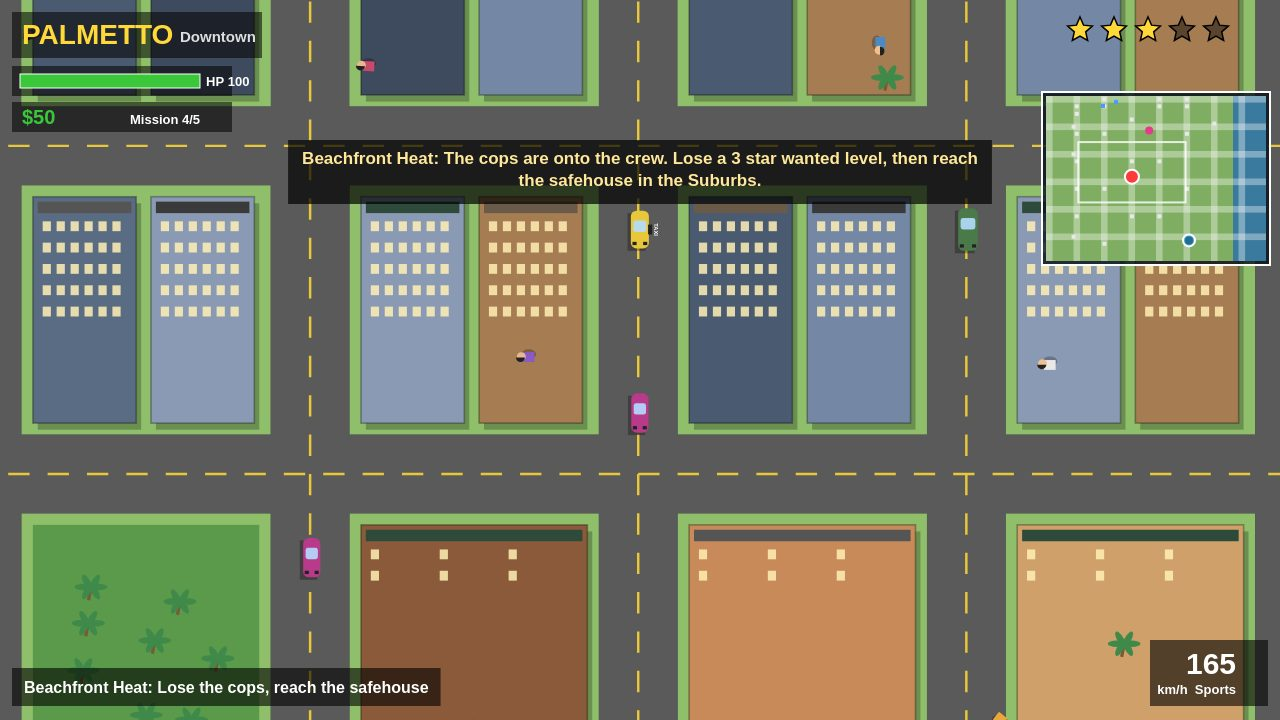
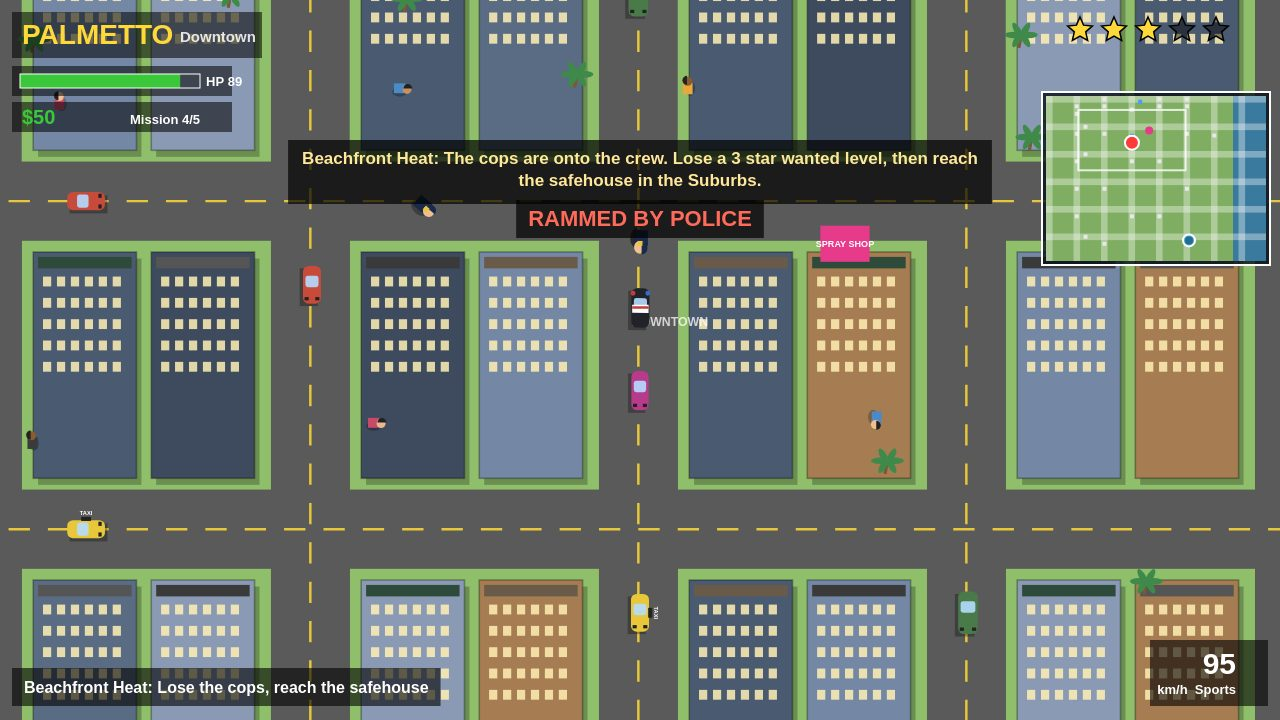
Palmetto v2: fix grader run, police chase, fresh screenshots

diff --git a/game/src/police.js b/game/src/police.js
@@ -26,11 +26,39 @@
   }
 
   function spawnCopNear(x, y, inCar) {
-    var a = Math.random() * Math.PI * 2;
-    var sx = x + Math.cos(a) * 420;
-    var sy = y + Math.sin(a) * 420;
-    sx = Math.max(60, Math.min(City.W - 60, sx));
-    sy = Math.max(60, Math.min(City.H - 60, sy));
+    var sx = x;
+    var sy = y;
+    var placed = false;
+    for (var t = 0; t < 24 && !placed; t++) {
+      var a = Math.random() * Math.PI * 2;
+      var r = 380 + Math.random() * 80;
+      var cx = x + Math.cos(a) * r;
+      var cy = y + Math.sin(a) * r;
+      cx = Math.max(60, Math.min(City.W - 60, cx));
+      cy = Math.max(60, Math.min(City.H - 60, cy));
+      if (City.isRoad(cx, cy) && !City.collideCircle(cx, cy, 12)) {
+        sx = cx; sy = cy; placed = true;
+      }
+    }
+    if (!placed) {
+      var found = false;
+      for (var rr = 200; rr <= 640 && !found; rr += 40) {
+        for (var k = 0; k < 24 && !found; k++) {
+          var ang = (k / 24) * Math.PI * 2;
+          var fx = x + Math.cos(ang) * rr;
+          var fy = y + Math.sin(ang) * rr;
+          fx = Math.max(60, Math.min(City.W - 60, fx));
+          fy = Math.max(60, Math.min(City.H - 60, fy));
+          if (City.isRoad(fx, fy) && !City.collideCircle(fx, fy, 12)) {
+            sx = fx; sy = fy; found = true;
+          }
+        }
+      }
+      if (!found) {
+        sx = Math.max(60, Math.min(City.W - 60, sx));
+        sy = Math.max(60, Math.min(City.H - 60, sy));
+      }
+    }
     if (inCar) {
       var car = Vehicles.makeCar('police', sx, sy, Math.atan2(y - sy, x - sx), false);
       car.traffic = false;
@@ -60,9 +88,38 @@
       if (d < 700) seen = true;
       c.angle = Math.atan2(py - c.y, px - c.x);
       var sp = d < 60 ? c.speed * 1.2 : c.speed;
-      var nx = c.x + Math.cos(c.angle) * sp * dt;
-      var ny = c.y + Math.sin(c.angle) * sp * dt;
-      if (!City.collideCircle(nx, ny, 12)) { c.x = nx; c.y = ny; }
+      var dx = Math.cos(c.angle) * sp * dt;
+      var dy = Math.sin(c.angle) * sp * dt;
+      var movedX = false;
+      var movedY = false;
+      if (!City.collideCircle(c.x + dx, c.y, 12)) { c.x += dx; movedX = true; }
+      if (!City.collideCircle(c.x, c.y + dy, 12)) { c.y += dy; movedY = true; }
+      if (!movedX) {
+        var sy = sp * dt;
+        var northFree = !City.collideCircle(c.x, c.y - sy, 12);
+        var southFree = !City.collideCircle(c.x, c.y + sy, 12);
+        var pickY = 0;
+        if (northFree && !City.collideCircle(c.x + dx, c.y - sy, 12)) pickY = -1;
+        else if (southFree && !City.collideCircle(c.x + dx, c.y + sy, 12)) pickY = 1;
+        else if (dy < 0 && northFree) pickY = -1;
+        else if (dy > 0 && southFree) pickY = 1;
+        else if (northFree) pickY = -1;
+        else if (southFree) pickY = 1;
+        if (pickY !== 0) c.y += pickY * sy;
+      }
+      if (!movedY) {
+        var sx = sp * dt;
+        var westFree = !City.collideCircle(c.x - sx, c.y, 12);
+        var eastFree = !City.collideCircle(c.x + sx, c.y, 12);
+        var pickX = 0;
+        if (westFree && !City.collideCircle(c.x - sx, c.y + dy, 12)) pickX = -1;
+        else if (eastFree && !City.collideCircle(c.x + sx, c.y + dy, 12)) pickX = 1;
+        else if (dx < 0 && westFree) pickX = -1;
+        else if (dx > 0 && eastFree) pickX = 1;
+        else if (westFree) pickX = -1;
+        else if (eastFree) pickX = 1;
+        if (pickX !== 0) c.x += pickX * sx;
+      }
       c.phase += dt * 10;
       if (d < 26 && !playerInCar) {
         arrestTimer += dt;

diff --git a/main.ts b/main.ts
@@ -2,6 +2,9 @@
 // Copies game/ and screenshots/ into the output directory and writes
 // output/dossier.json by calling buildDossier from vendor/makefun-game.ts.
 // Run from the repo root: MAKEFUN_OUTPUT_DIR=out node main.ts
+// The output directory itself is never removed: in the grader it is a
+// bind-mounted volume, so deleting it fails and the run exits 1. Only the
+// three entries this program owns are cleared inside it, one by one.
 import { cpSync, existsSync, mkdirSync, rmSync, writeFileSync } from 'node:fs';
 import { join, resolve } from 'node:path';
 import { fileURLToPath } from 'node:url';
@@ -10,8 +13,11 @@ import { buildDossier } from './vendor/makefun-game.ts';
 const repoRoot = resolve(fileURLToPath(new URL('.', import.meta.url)));
 const outDir = resolve(process.env.MAKEFUN_OUTPUT_DIR || '/output');
 
-rmSync(outDir, { recursive: true, force: true });
 mkdirSync(outDir, { recursive: true });
+
+for (const owned of ['game', 'screenshots', 'dossier.json']) {
+  rmSync(join(outDir, owned), { recursive: true, force: true });
+}
 
 const gameSrc = join(repoRoot, 'game');
 const shotsSrc = join(repoRoot, 'screenshots');
@@ -26,6 +32,7 @@ const dossier = buildDossier(outDir, {
   screenshots: { max: 4, max_bytes: 262144 },
   game_max_files: 993,
   game_max_bytes: 50331648,
+  game_path_max_bytes: 1000,
 });
 
 writeFileSync(join(outDir, 'dossier.json'), dossier);
